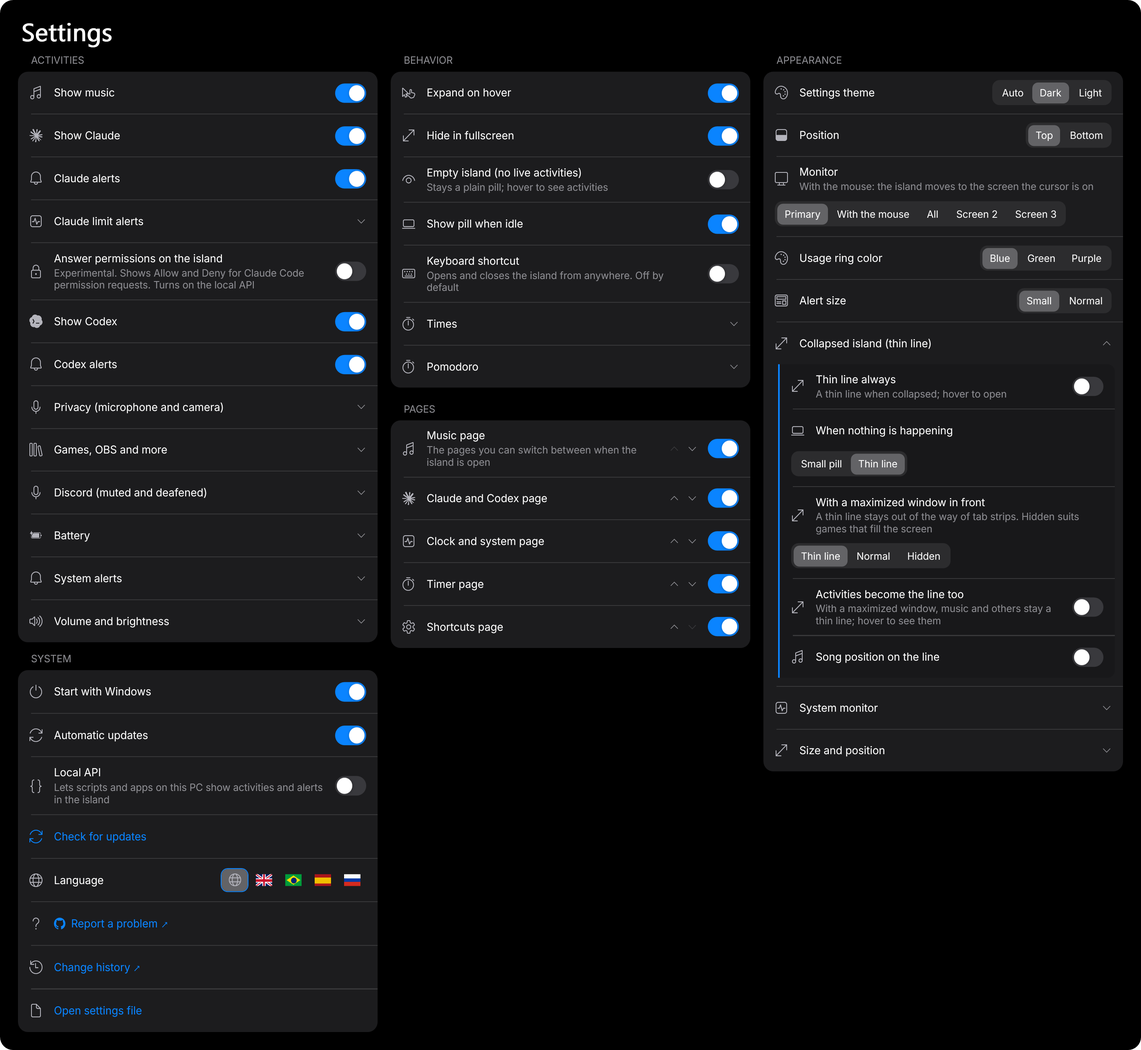
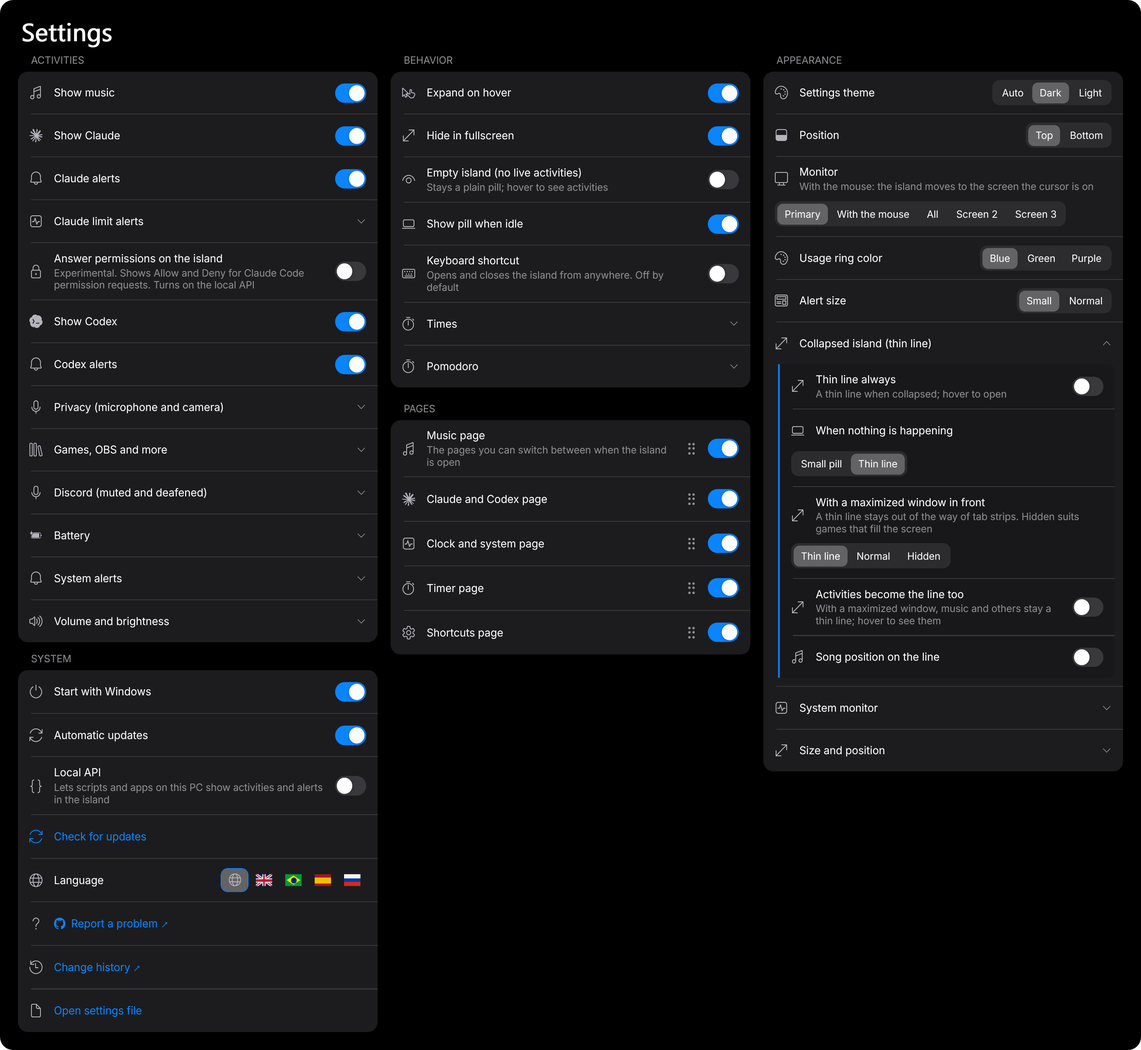
README: tray menu, update from the island, drag to order pages; refreshed settings image

Changed region(s): [[0.3428, 0.4669, 0.6544, 0.6226], [0.3739, 0.4358, 0.4674, 0.5603]]

diff --git a/README.ru.md b/README.ru.md
@@ -37,14 +37,14 @@ Dynamic Island для Windows. Музыка, Claude Code, его лимиты и
 - **Использование Claude:** кольца для **5-часового** и **недельного** лимитов со временем сброса
 - **Codex:** активность в реальном времени, пока Codex работает, его 5-часовой и недельный лимиты и оповещение, когда он закончил
 - **Страницы:** в развёрнутом острове прокрутите колесо мыши над ним или нажмите на точки, чтобы переключаться между музыкой, Claude и таймером, у которого там тоже есть свои кнопки
-- **Таймер, секундомер и Помодоро** (циклы фокуса и перерыва): запускаются из меню в трее, отображаются как активность в реальном времени и сообщают, когда время вышло
+- **Таймер, секундомер и Помодоро** (циклы фокуса и перерыва): запускаются на странице таймера острова, отображаются как активность в реальном времени и сообщают, когда время вышло
 - **Точки микрофона и камеры:** оранжевая, пока используется микрофон, зелёная для камеры, как на iPhone
 - **Точка показа экрана:** синяя точка, пока приложение показывает или записывает экран, например при звонке или записи
 - **Загрузки Steam (по умолчанию включено):** ход загрузки или обновления игры в Steam, из файлов манифеста, которые Steam хранит рядом с играми
 - **Больше живых активностей:** запись OBS, обновления Windows, загрузки браузера (с расширением) и счёт вашей команды (по умолчанию выключено), а также более богатая тонкая линия с маленьким значком самого важного
 - **Discord: микрофон или звук выключены (экспериментально, по умолчанию выключено):** перечёркнутый микрофон или наушники рядом с островом, пока вы отключены в Discord, как бы вы это ни сделали. Нужно своё приложение Discord, см. [docs/DISCORD.md](docs/DISCORD.md)
 - **Светлые или тёмные настройки:** окно настроек может следовать теме Windows или быть светлым или тёмным; сам остров всегда чёрный
-- **Свой порядок и своё время:** выбирайте порядок страниц, какие оповещения о лимитах показывать (75%, 90%, 100%, обновление) и как долго держатся оповещения, уведомления и оповещения о лимитах
+- **Свой порядок и своё время:** перетаскивайте страницы в нужном порядке, какие оповещения о лимитах показывать (75%, 90%, 100%, обновление) и как долго держатся оповещения, уведомления и оповещения о лимитах
 - **Батарея** на ноутбуках: во время зарядки показывается как активность, а также оповещения о подключении и отключении зарядного, низком заряде и полной зарядке
 - **Названия приложений у точек:** наведите мышь на остров, чтобы увидеть, какое приложение использует микрофон или камеру
 - **Полоса громкости и яркости**, заметки о **Bluetooth, USB и сети** и луна для режима **Не беспокоить**
@@ -146,7 +146,7 @@ Dynamic Island для Windows. Музыка, Claude Code, его лимиты и
 1. **Наведите** указатель на остров, чтобы развернуть его, или **щёлкните** по нему. Уберите указатель — и он свернётся.
 2. **Щёлкните** по полосе прогресса, чтобы перейти к этому месту песни.
 3. **Щёлкните** по оповещению или уведомлению, чтобы закрыть его.
-4. **Щёлкните** по значку в трее или откройте ярлык Windows Island, пока он запущен, чтобы открыть **Settings**. Правый щелчок по значку открывает быстрые действия и **Quit**.
+4. **Щёлкните** по значку в трее или откройте ярлык Windows Island, пока он запущен, чтобы открыть **Settings**. Правый щелчок по значку открывает меню: тонкая линия, «Не беспокоить» для острова (баннеры не показываются; только то, что спрашивает Claude), пустой остров, **Проверить обновления** и красная кнопка **Закрыть**.
 
 <img src="docs/images/settings-en.png" alt="Окно настроек" width="900">
 
@@ -193,7 +193,7 @@ Dynamic Island для Windows. Музыка, Claude Code, его лимиты и
 
 Полная история изменений — в [CHANGELOG.md](CHANGELOG.md) (английский) и [CHANGELOG.pt-BR.md](CHANGELOG.pt-BR.md) (португальский).
 
-Каждый час остров проверяет последний релиз на GitHub. Обновление устанавливается, только если его цифровая подпись совпадает с ключом, встроенным в приложение, а хеш файла — с подписанным списком, поэтому подменённый файл отклоняется. Остров перезапускается в новой версии, когда вы им не пользуетесь, и показывает короткое уведомление. Отключить можно через **Automatic updates** в меню трея, а **Check for updates** проверяет обновления сразу.
+Каждый час остров проверяет последний релиз на GitHub. Обновление устанавливается, только если его цифровая подпись совпадает с ключом, встроенным в приложение, а хеш файла — с подписанным списком, поэтому подменённый файл отклоняется. Остров перезапускается в новой версии, когда вы им не пользуетесь, и показывает короткое уведомление. Отключить можно через **Automatic updates** в Settings. **Проверить обновления** в меню трея ищет в фоне, и если есть новая версия, остров спросит: нажмите на него, чтобы скачать, проверить и перезапустить.
 
 ## Удаление
 

diff --git a/README.es.md b/README.es.md
@@ -37,7 +37,7 @@ Una Dynamic Island para Windows. La música, Claude Code, sus límites de uso y 
 - **Uso de Claude:** anillos para los límites de **5 horas** y **semanal**, con la hora en que se renuevan
 - **Codex:** una actividad en vivo mientras Codex trabaja, sus límites de 5 horas y semanal, y un aviso cuando termina
 - **Páginas:** con la isla expandida, desplaza la rueda sobre ella o haz clic en los puntos para cambiar entre música, Claude y temporizador, que también tiene sus botones allí
-- **Temporizador, cronómetro y Pomodoro** (ciclos de enfoque y pausa): inícialos desde el menú de la bandeja; aparecen como actividad en vivo y avisan cuando se acaba el tiempo
+- **Temporizador, cronómetro y Pomodoro** (ciclos de enfoque y pausa): inícialos desde la página del Temporizador en la isla; aparecen como actividad en vivo y avisan cuando se acaba el tiempo
 - **Puntos de micrófono y cámara:** naranja con el micrófono en uso, verde con la cámara, como en el iPhone
 - **Batería** en portátiles: aparece como actividad al cargar, además de avisos de cargador conectado o retirado, batería baja y carga completa
 - **Nombres de las apps en los puntos:** mira qué app usa el micrófono o la cámara al pasar el ratón por la isla
@@ -46,7 +46,7 @@ Una Dynamic Island para Windows. La música, Claude Code, sus límites de uso y 
 - **Más actividades en vivo:** OBS grabando, actualizaciones de Windows, descargas del navegador (con la extensión) y el marcador en vivo de tu equipo (desactivado por defecto), además de una línea fina más rica con un icono pequeño de lo más importante
 - **Discord silenciado o ensordecido (experimental, desactivado por defecto):** un micrófono tachado o unos auriculares tachados junto a la isla mientras estás silenciado en Discord, lo hayas hecho como lo hayas hecho. Necesita una app tuya en Discord, mira [docs/DISCORD.md](docs/DISCORD.md)
 - **Ajustes claros u oscuros:** la ventana de Ajustes puede seguir el tema de Windows o quedarse en claro u oscuro; la isla siempre es negra
-- **Tu orden y tus tiempos:** elige el orden de las páginas, qué avisos de límite mostrar (75%, 90%, 100%, renovado) y cuánto duran los avisos, las notificaciones y los avisos de límite
+- **Tu orden y tus tiempos:** arrastra las páginas al orden que quieras, qué avisos de límite mostrar (75%, 90%, 100%, renovado) y cuánto duran los avisos, las notificaciones y los avisos de límite
 - **Barra de volumen y brillo**, avisos de **Bluetooth, USB y red** y una luna para **No molestar**
 - **Página de reloj y sistema** con la hora, la fecha, la carga del procesador y de la memoria
 - **Monitor del sistema** (desactivado por defecto): mantiene la carga del procesador y de la memoria en la isla cuando no pasa nada más, en anillos, barras o números
@@ -146,7 +146,7 @@ Para probarla sin instalar, ejecuta `WindowsIsland.exe --portable`.
 1. **Pasa el ratón** sobre la isla para expandirla, o **haz clic** en ella. Aparta el ratón y se contrae.
 2. **Haz clic** en la barra de progreso para saltar a ese punto de la canción.
 3. **Haz clic** en un aviso o notificación para descartarlo.
-4. **Haz clic** en el icono de la bandeja, o abre el acceso directo de Windows Island mientras se ejecuta, para abrir **Settings**. Haz clic derecho en el icono para las acciones rápidas y **Salir**. Haz clic de nuevo en el icono de la bandeja para cerrar Settings.
+4. **Haz clic** en el icono de la bandeja, o abre el acceso directo de Windows Island mientras se ejecuta, para abrir **Settings**. Haz clic derecho en el icono para un menú con la línea fina, No molestar para la isla (los avisos no aparecen; solo lo que Claude pregunta sigue apareciendo), la isla vacía, **Buscar actualizaciones** y un **Cerrar** en rojo. Haz clic de nuevo en el icono de la bandeja para cerrar Settings.
 
 <img src="docs/images/settings-en.png" alt="La ventana de ajustes" width="900">
 
@@ -193,7 +193,7 @@ Los detalles están en [SECURITY.md](SECURITY.md).
 
 El historial completo de cambios está en [CHANGELOG.md](CHANGELOG.md) (inglés) y [CHANGELOG.pt-BR.md](CHANGELOG.pt-BR.md) (portugués).
 
-Cada hora la isla revisa la última versión en GitHub. Solo instala una actualización si su firma digital coincide con la clave incluida en la app y el hash del archivo coincide con la lista firmada, así que un archivo manipulado se rechaza. Se reinicia en la versión nueva cuando no estás usando la isla y muestra un aviso breve. Desactívalo con **Automatic updates** en el menú de la bandeja, donde **Check for updates** busca una actualización al momento.
+Cada hora la isla revisa la última versión en GitHub. Solo instala una actualización si su firma digital coincide con la clave incluida en la app y el hash del archivo coincide con la lista firmada, así que un archivo manipulado se rechaza. Se reinicia en la versión nueva cuando no estás usando la isla y muestra un aviso breve. Desactívalo con **Automatic updates** en Settings. **Buscar actualizaciones** en el menú de la bandeja busca en segundo plano y, si hay una versión nueva, la isla te pregunta: tócala para descargar, verificar y reiniciar.
 
 ## Desinstalar
 

diff --git a/README.pt-BR.md b/README.pt-BR.md
@@ -37,7 +37,7 @@ Uma Dynamic Island para o Windows. Música, Claude Code, os limites de uso e sua
 - **Uso do Claude:** anéis dos limites de **5 horas** e **semanal**, com o horário em que renovam
 - **Codex:** atividade ao vivo enquanto o Codex trabalha, os limites de 5 horas e semanal, e um aviso quando ele termina
 - **Páginas:** com a ilha expandida, role o mouse sobre ela ou clique nos pontinhos para alternar entre música, Claude e timer, que também tem seus botões ali
-- **Timer, cronômetro e Pomodoro** (ciclos de foco e pausa): inicie um pelo menu da bandeja; ele aparece como atividade ao vivo e avisa quando o tempo acaba
+- **Timer, cronômetro e Pomodoro** (ciclos de foco e pausa): inicie um pela página do Timer na ilha; ele aparece como atividade ao vivo e avisa quando o tempo acaba
 - **Pontos de microfone e câmera:** laranja com o microfone em uso, verde com a câmera, como no iPhone
 - **Bateria** em notebooks: aparece como atividade ao carregar, mais avisos de carregador conectado ou removido, bateria baixa e carregada
 - **Nomes dos apps nos pontos:** veja qual app usa o microfone ou a câmera ao passar o mouse sobre a ilha
@@ -46,7 +46,7 @@ Uma Dynamic Island para o Windows. Música, Claude Code, os limites de uso e sua
 - **Mais atividades ao vivo:** OBS gravando, atualizações do Windows, downloads do navegador (com a extensão) e o placar ao vivo do seu time (desligado por padrão), além de uma linha fina mais rica, com um ícone pequeno do que mais importa
 - **Discord mudo ou ensurdecido (experimental, desligado por padrão):** um microfone cortado ou um fone cortado ao lado da ilha enquanto você está mudo no Discord, não importa como se mutou. Precisa de um app seu no Discord, veja [docs/DISCORD.md](docs/DISCORD.md)
 - **Ajustes claro ou escuro:** a janela de Ajustes pode seguir o tema do Windows ou ficar no claro ou no escuro; a ilha em si é sempre preta
-- **Sua ordem e seus tempos:** escolha a ordem das páginas, quais avisos de limite mostrar (75%, 90%, 100%, renovado) e quanto tempo ficam os avisos, as notificações e os avisos de limite
+- **Sua ordem e seus tempos:** arraste as páginas para a ordem que quiser, quais avisos de limite mostrar (75%, 90%, 100%, renovado) e quanto tempo ficam os avisos, as notificações e os avisos de limite
 - **Barra de volume e brilho**, avisos de **Bluetooth, USB e rede** e uma lua para **Não perturbe**
 - **Página de relógio e sistema** com hora, data, carga do processador e da memória
 - **Monitor do sistema** (desligado por padrão): mantém a carga do processador e da memória na ilha quando nada mais está acontecendo, em anéis, barras ou números
@@ -146,7 +146,7 @@ Para testar sem instalar, rode `WindowsIsland.exe --portable`.
 1. **Passe o mouse** sobre a ilha para expandir, ou **clique** nela. Tire o mouse e ela recolhe.
 2. **Clique** na barra de progresso para ir até aquele ponto da música.
 3. **Clique** num aviso ou notificação para dispensar.
-4. **Clique** no ícone da bandeja, ou abra o atalho do Windows Island com ele rodando, para abrir os **Ajustes**. Clique com o botão direito no ícone para as ações rápidas e **Sair**. Clique de novo no ícone da bandeja para fechar os Ajustes.
+4. **Clique** no ícone da bandeja, ou abra o atalho do Windows Island com ele rodando, para abrir os **Ajustes**. Clique com o botão direito no ícone para um menu com a linha fina, o Não perturbe da ilha (os avisos não aparecem; só o que o Claude pergunta continua aparecendo), a ilha vazia, **Procurar atualizações** e um **Fechar** em vermelho. Clique de novo no ícone da bandeja para fechar os Ajustes.
 
 <img src="docs/images/settings-pt.png" alt="A janela de ajustes" width="900">
 
@@ -192,7 +192,7 @@ Detalhes em [SECURITY.md](docs/SECURITY.pt-BR.md).
 
 O histórico completo de mudanças está em [CHANGELOG.pt-BR.md](CHANGELOG.pt-BR.md) (português) e [CHANGELOG.md](CHANGELOG.md) (inglês, o original).
 
-A cada hora a ilha confere a última release do GitHub. Ela só instala uma atualização se a assinatura digital bater com a chave embutida no app e o hash do arquivo bater com a lista assinada, então um arquivo adulterado é recusado. Ela reinicia na versão nova quando você não está usando a ilha e mostra um aviso rápido. Desligue em **Atualizações automáticas** no menu da bandeja, onde **Procurar atualizações** faz uma verificação na hora.
+A cada hora a ilha confere a última release do GitHub. Ela só instala uma atualização se a assinatura digital bater com a chave embutida no app e o hash do arquivo bater com a lista assinada, então um arquivo adulterado é recusado. Ela reinicia na versão nova quando você não está usando a ilha e mostra um aviso rápido. Desligue em **Atualizações automáticas** nos Ajustes. **Procurar atualizações** no menu da bandeja procura em segundo plano e, se houver versão nova, a ilha pergunta: toque nela para baixar, conferir e reiniciar.
 
 ## Desinstalar
 

diff --git a/README.md b/README.md
@@ -37,7 +37,7 @@ A Dynamic Island for Windows. Music, Claude Code, its usage limits and your noti
 - **Claude usage:** rings for the **5-hour** and **weekly** limits, with reset times
 - **Codex:** a live activity while Codex works, its 5-hour and weekly limits, and an alert when it finishes
 - **Pages:** when the island is expanded, scroll over it or click the dots to switch between music, Claude and the timer, which also has its own buttons there
-- **Timer, stopwatch and Pomodoro** (focus and break cycles): start one from the tray menu; it shows as a live activity and alerts you when the time is up
+- **Timer, stopwatch and Pomodoro** (focus and break cycles): start one from the island's Timer page; it shows as a live activity and alerts you when the time is up
 - **Microphone and camera dots:** orange while the microphone is in use, green for the camera, like on iPhone
 - **Battery** on laptops: shown as an activity while charging, plus alerts for charger connected or removed, low battery and fully charged
 - **App names on the dots:** see which app is using the microphone or camera
@@ -46,7 +46,7 @@ A Dynamic Island for Windows. Music, Claude Code, its usage limits and your noti
 - **More live activities:** OBS recording, Windows updates, browser downloads (with the extension) and the live score of your team (off by default), plus a richer thin line that shows a tiny icon of what matters most
 - **Discord muted or deafened (experimental, off by default):** a crossed microphone or crossed headphones beside the island while you are muted in Discord, however you muted. Needs a Discord app of your own, see [docs/DISCORD.md](docs/DISCORD.md)
 - **Light or dark Settings:** the Settings window can follow the Windows theme or be set to light or dark; the island itself is always black
-- **Your order and your times:** choose the order of the pages, which limit alerts to show (75%, 90%, 100%, renewed) and how long alerts, notifications and limit alerts stay
+- **Your order and your times:** drag the pages into the order you like, which limit alerts to show (75%, 90%, 100%, renewed) and how long alerts, notifications and limit alerts stay
 - **Volume and brightness** bar, **Bluetooth, USB and network** notes, and a moon for **Do not disturb**
 - **Clock and system page** with the time, date, processor and memory load
 - **System monitor** (off by default): keeps the processor and memory load on the island when nothing else is happening, as rings, bars or numbers
@@ -146,7 +146,7 @@ To try it without installing, run `WindowsIsland.exe --portable`.
 1. **Hover** over the island to expand it, or **click** it. Move the mouse away and it collapses.
 2. **Click** the progress bar to jump to that point of the song.
 3. **Click** an alert or notification to dismiss it.
-4. **Click** the tray icon, or open the Windows Island shortcut while it runs, to open **Settings**. Right-click the icon for quick actions and **Quit**. Click the tray icon again to close Settings.
+4. **Click** the tray icon, or open the Windows Island shortcut while it runs, to open **Settings**. Right-click the icon for a menu with the thin line, Do not disturb for the island (banners stay away; only what Claude asks still shows), the empty island, **Check for updates** and a red **Close**. Click the tray icon again to close Settings.
 
 <img src="docs/images/settings-en.png" alt="The settings window" width="900">
 
@@ -192,7 +192,7 @@ Details are in [SECURITY.md](SECURITY.md).
 
 The full history of changes is in [CHANGELOG.md](CHANGELOG.md) (English) and [CHANGELOG.pt-BR.md](CHANGELOG.pt-BR.md) (Portuguese).
 
-Every hour the island checks the latest GitHub release. It installs an update only if its digital signature matches the key built into the app and the file's hash matches the signed list, so a tampered file is rejected. It restarts into the new version when you are not using the island and shows a short notice. Turn this off with **Automatic updates** in the tray menu, where **Check for updates** runs a check on demand.
+Every hour the island checks the latest GitHub release. It installs an update only if its digital signature matches the key built into the app and the file's hash matches the signed list, so a tampered file is rejected. It restarts into the new version when you are not using the island and shows a short notice. Turn this off with **Automatic updates** in Settings. **Check for updates** in the tray menu looks in the background and, when there is a new version, the island asks you: tap it to download, verify and restart.
 
 ## Uninstall
 
